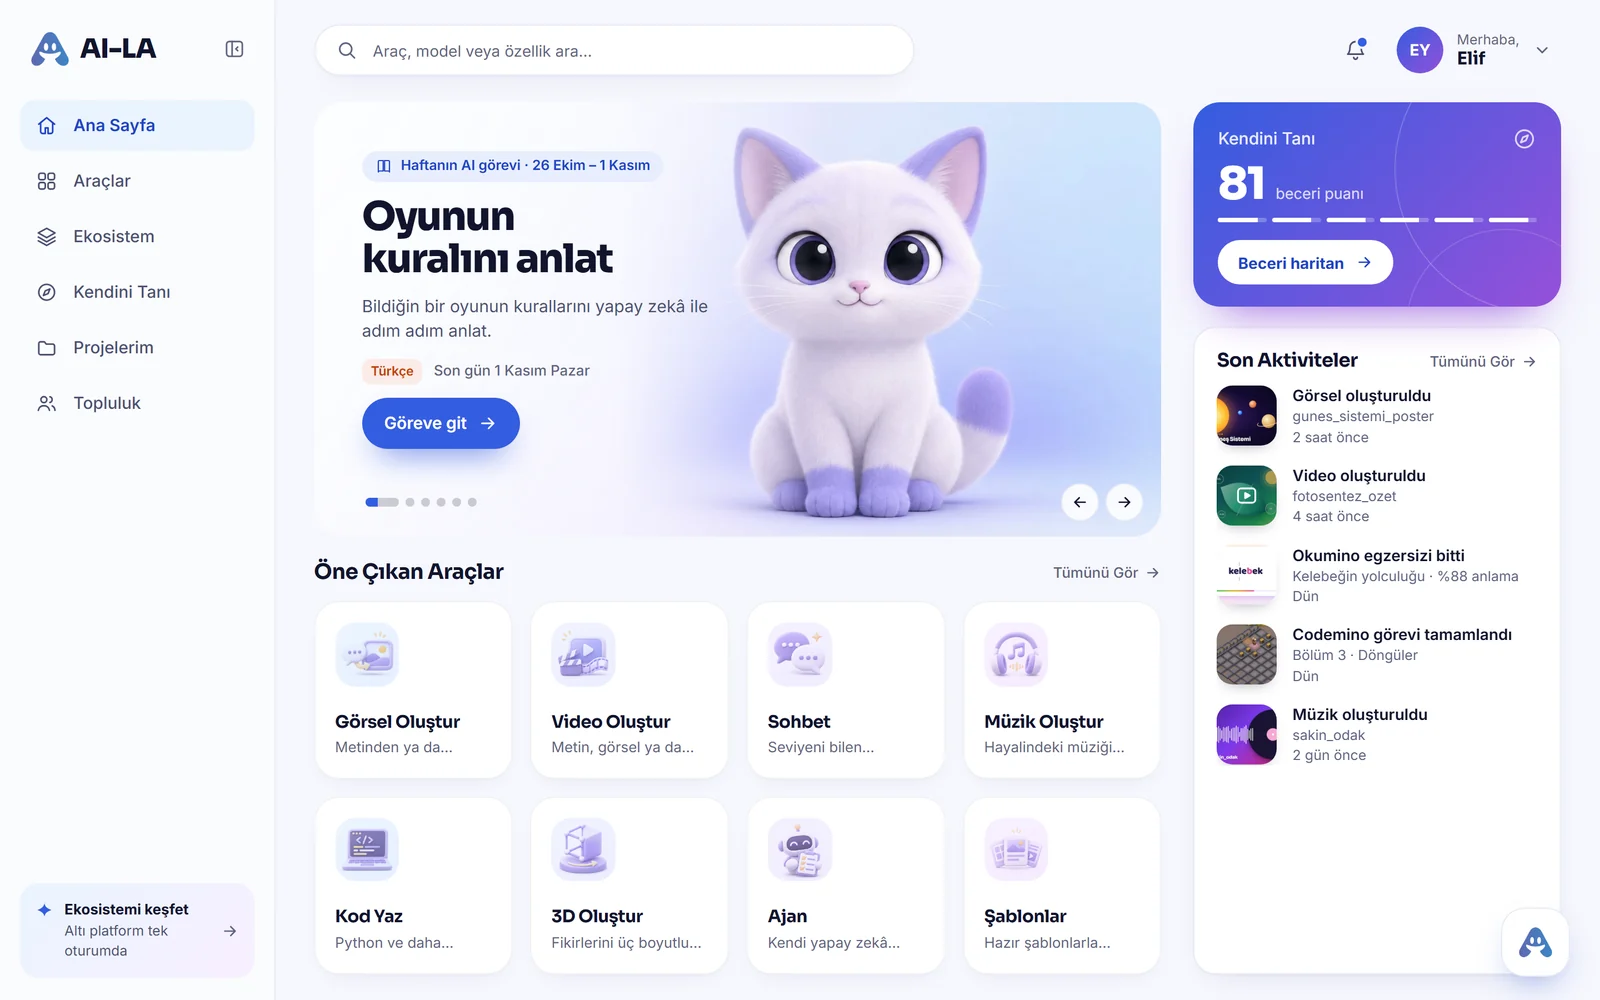
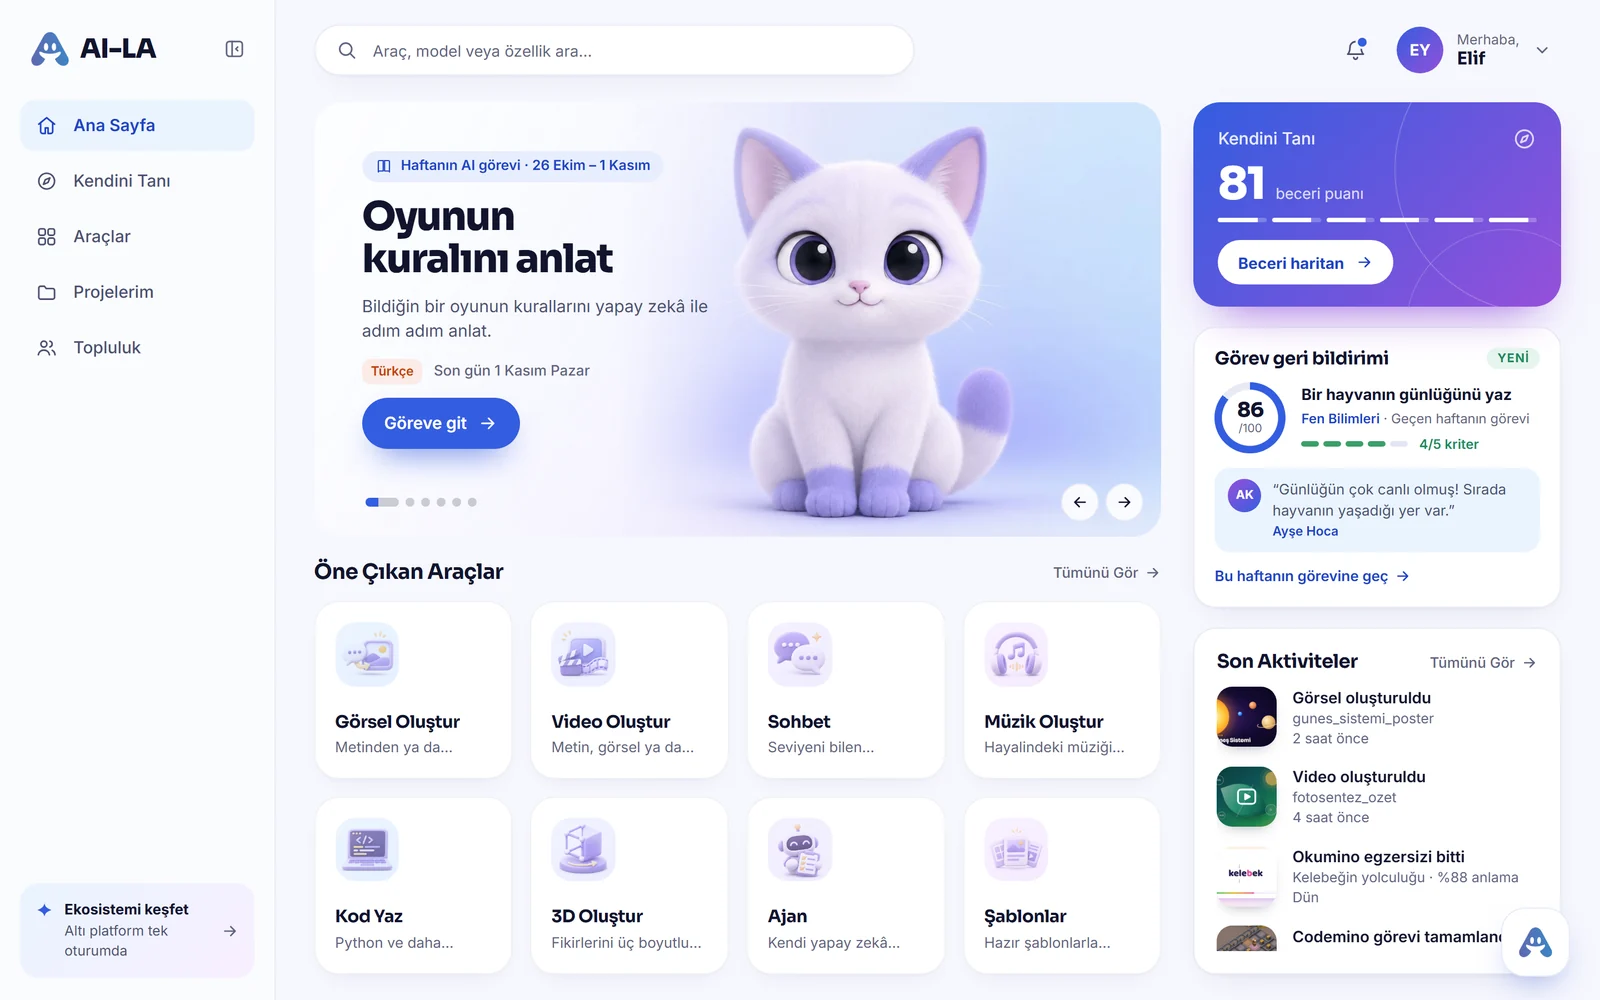
index_v2: öğrenci ekranı index2 (panel2) sürümünden, menüde mükerrer Ekosistem yok

diff --git a/index_v2.html b/index_v2.html
@@ -295,7 +295,7 @@
         </div>
 
         <div class="tabpanel" role="tabpanel" id="panel-ogrenci" aria-labelledby="tab-ogrenci" tabindex="0" data-profile="Öğrenci profili">
-          <figure class="role-shot"><img src="assets/paneller/ogrenci.webp" width="1600" height="1000" decoding="async" alt="Öğrenci paneli: haftanın AI görevi, öne çıkan araçlar, Kendini Tanı beceri puanı ve son aktiviteler" /></figure>
+          <figure class="role-shot"><img src="assets/paneller/ogrenci.webp" width="1600" height="1000" decoding="async" alt="Öğrenci paneli: haftanın AI görevi, öne çıkan araçlar, Kendini Tanı beceri puanı, görev geri bildirimi ve son aktiviteler" /></figure>
         </div>
 
         <div class="tabpanel" role="tabpanel" id="panel-ogretmen" aria-labelledby="tab-ogretmen" tabindex="0" data-profile="Öğretmen profili" hidden>
